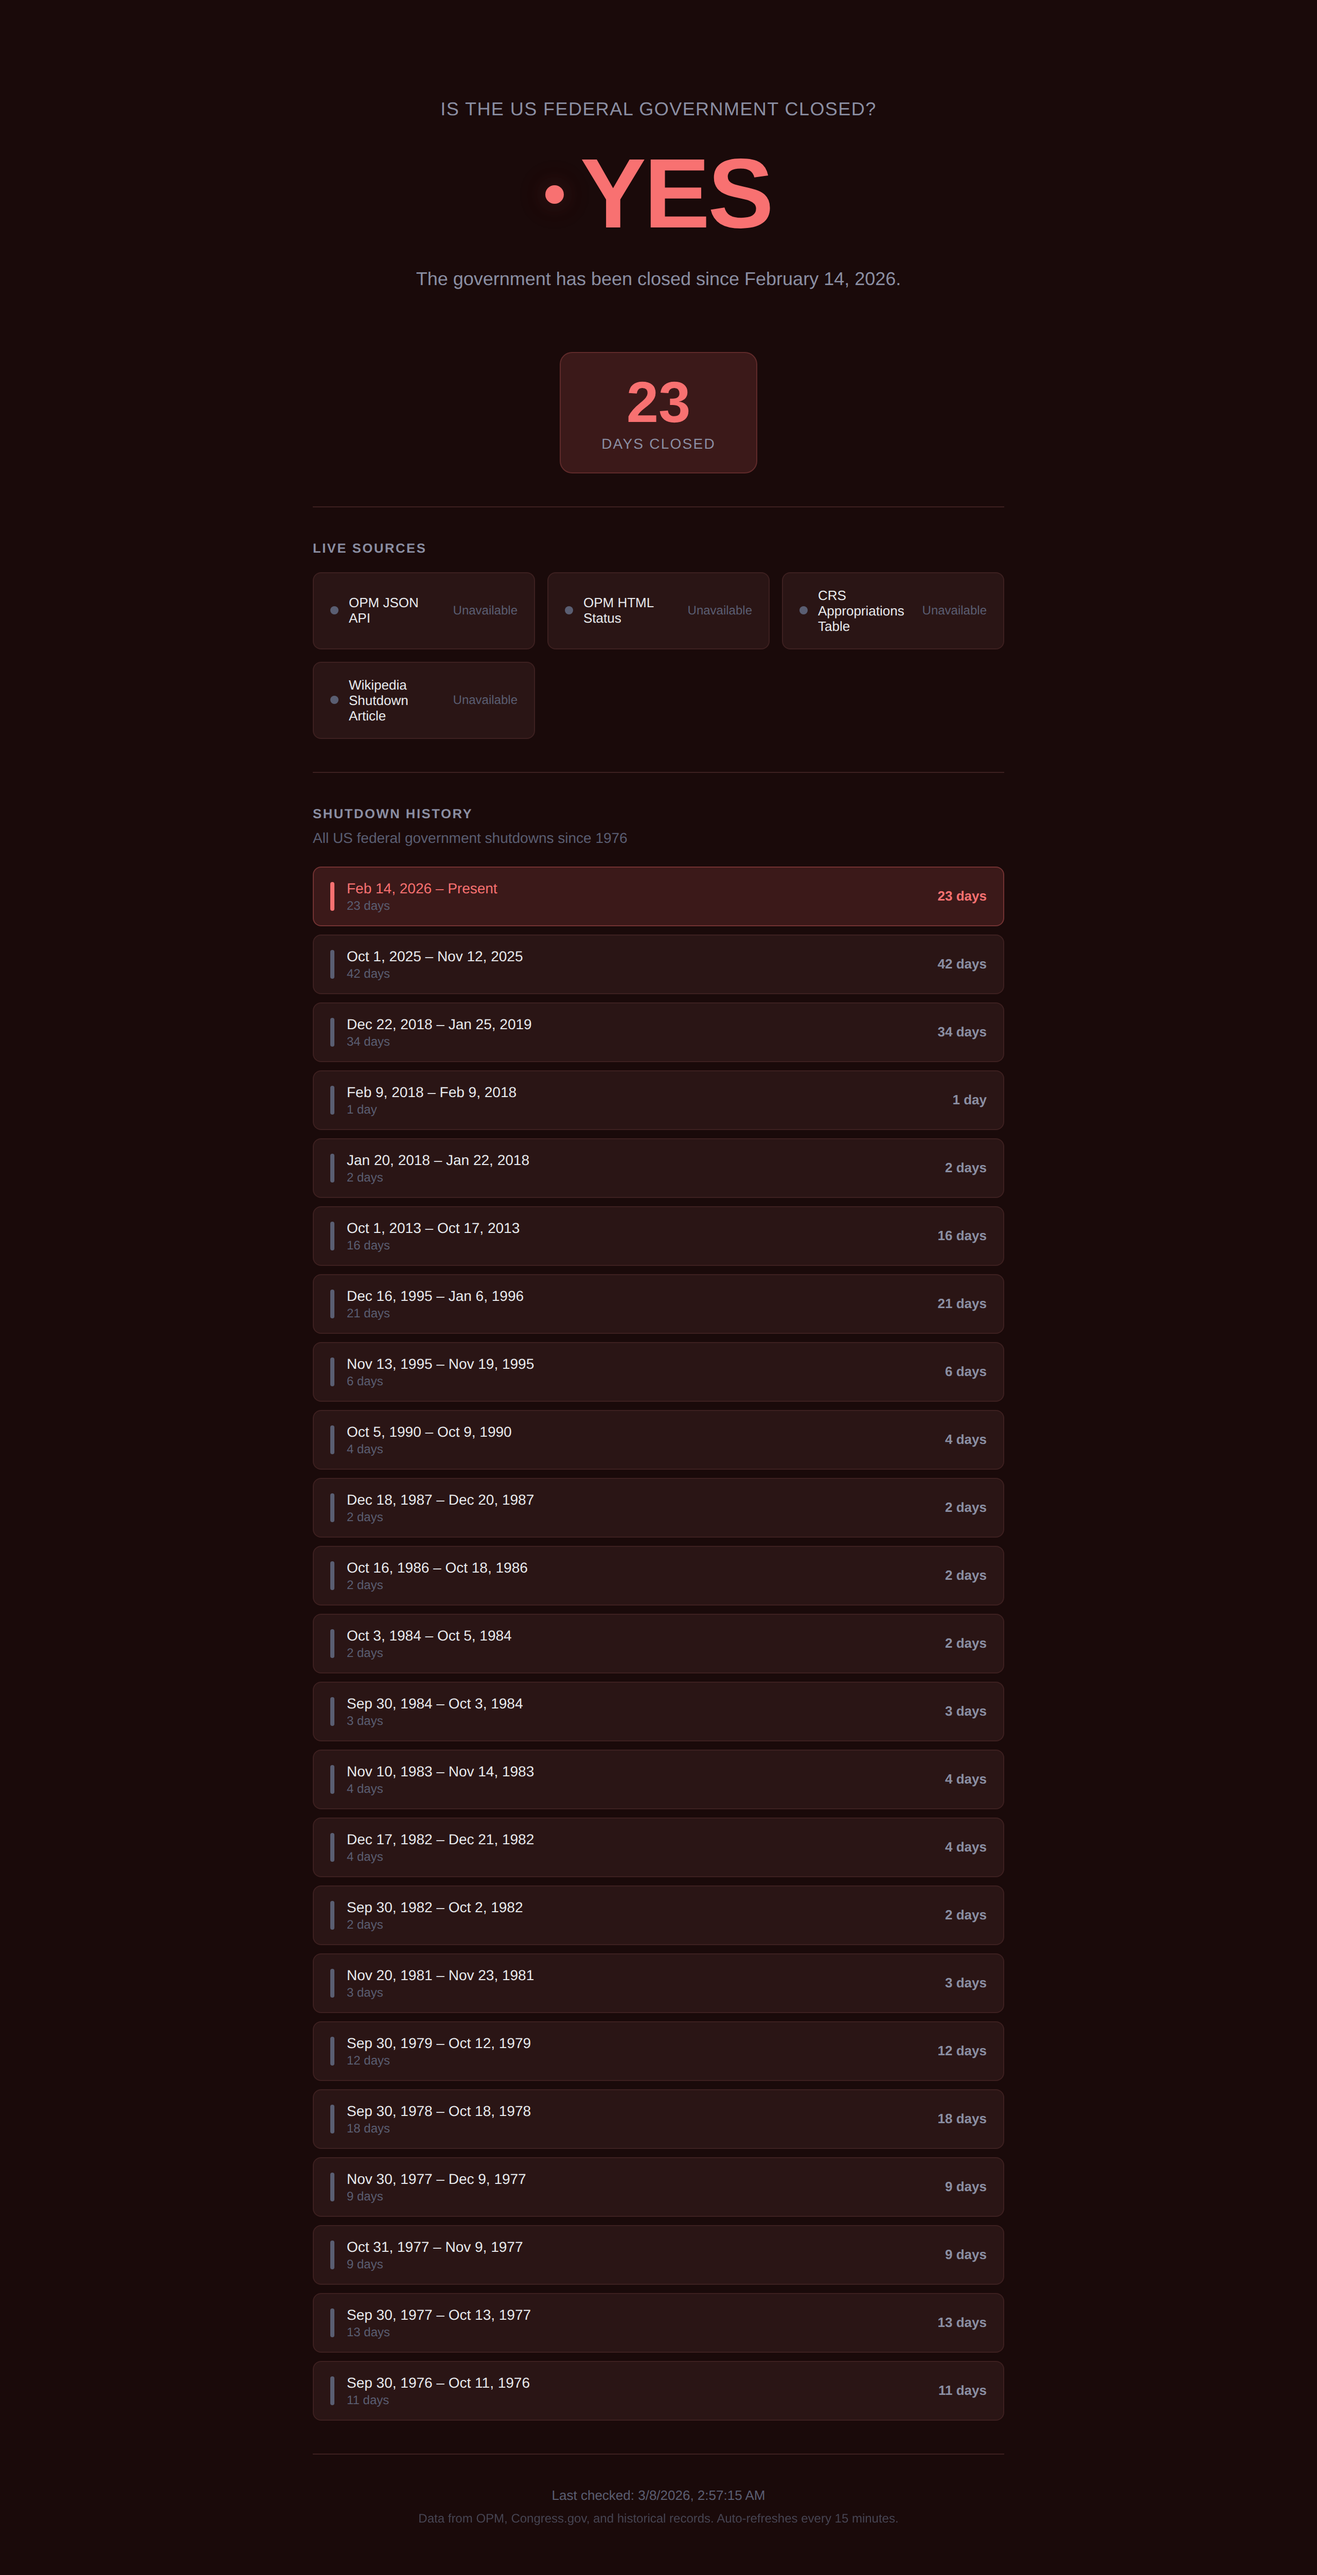
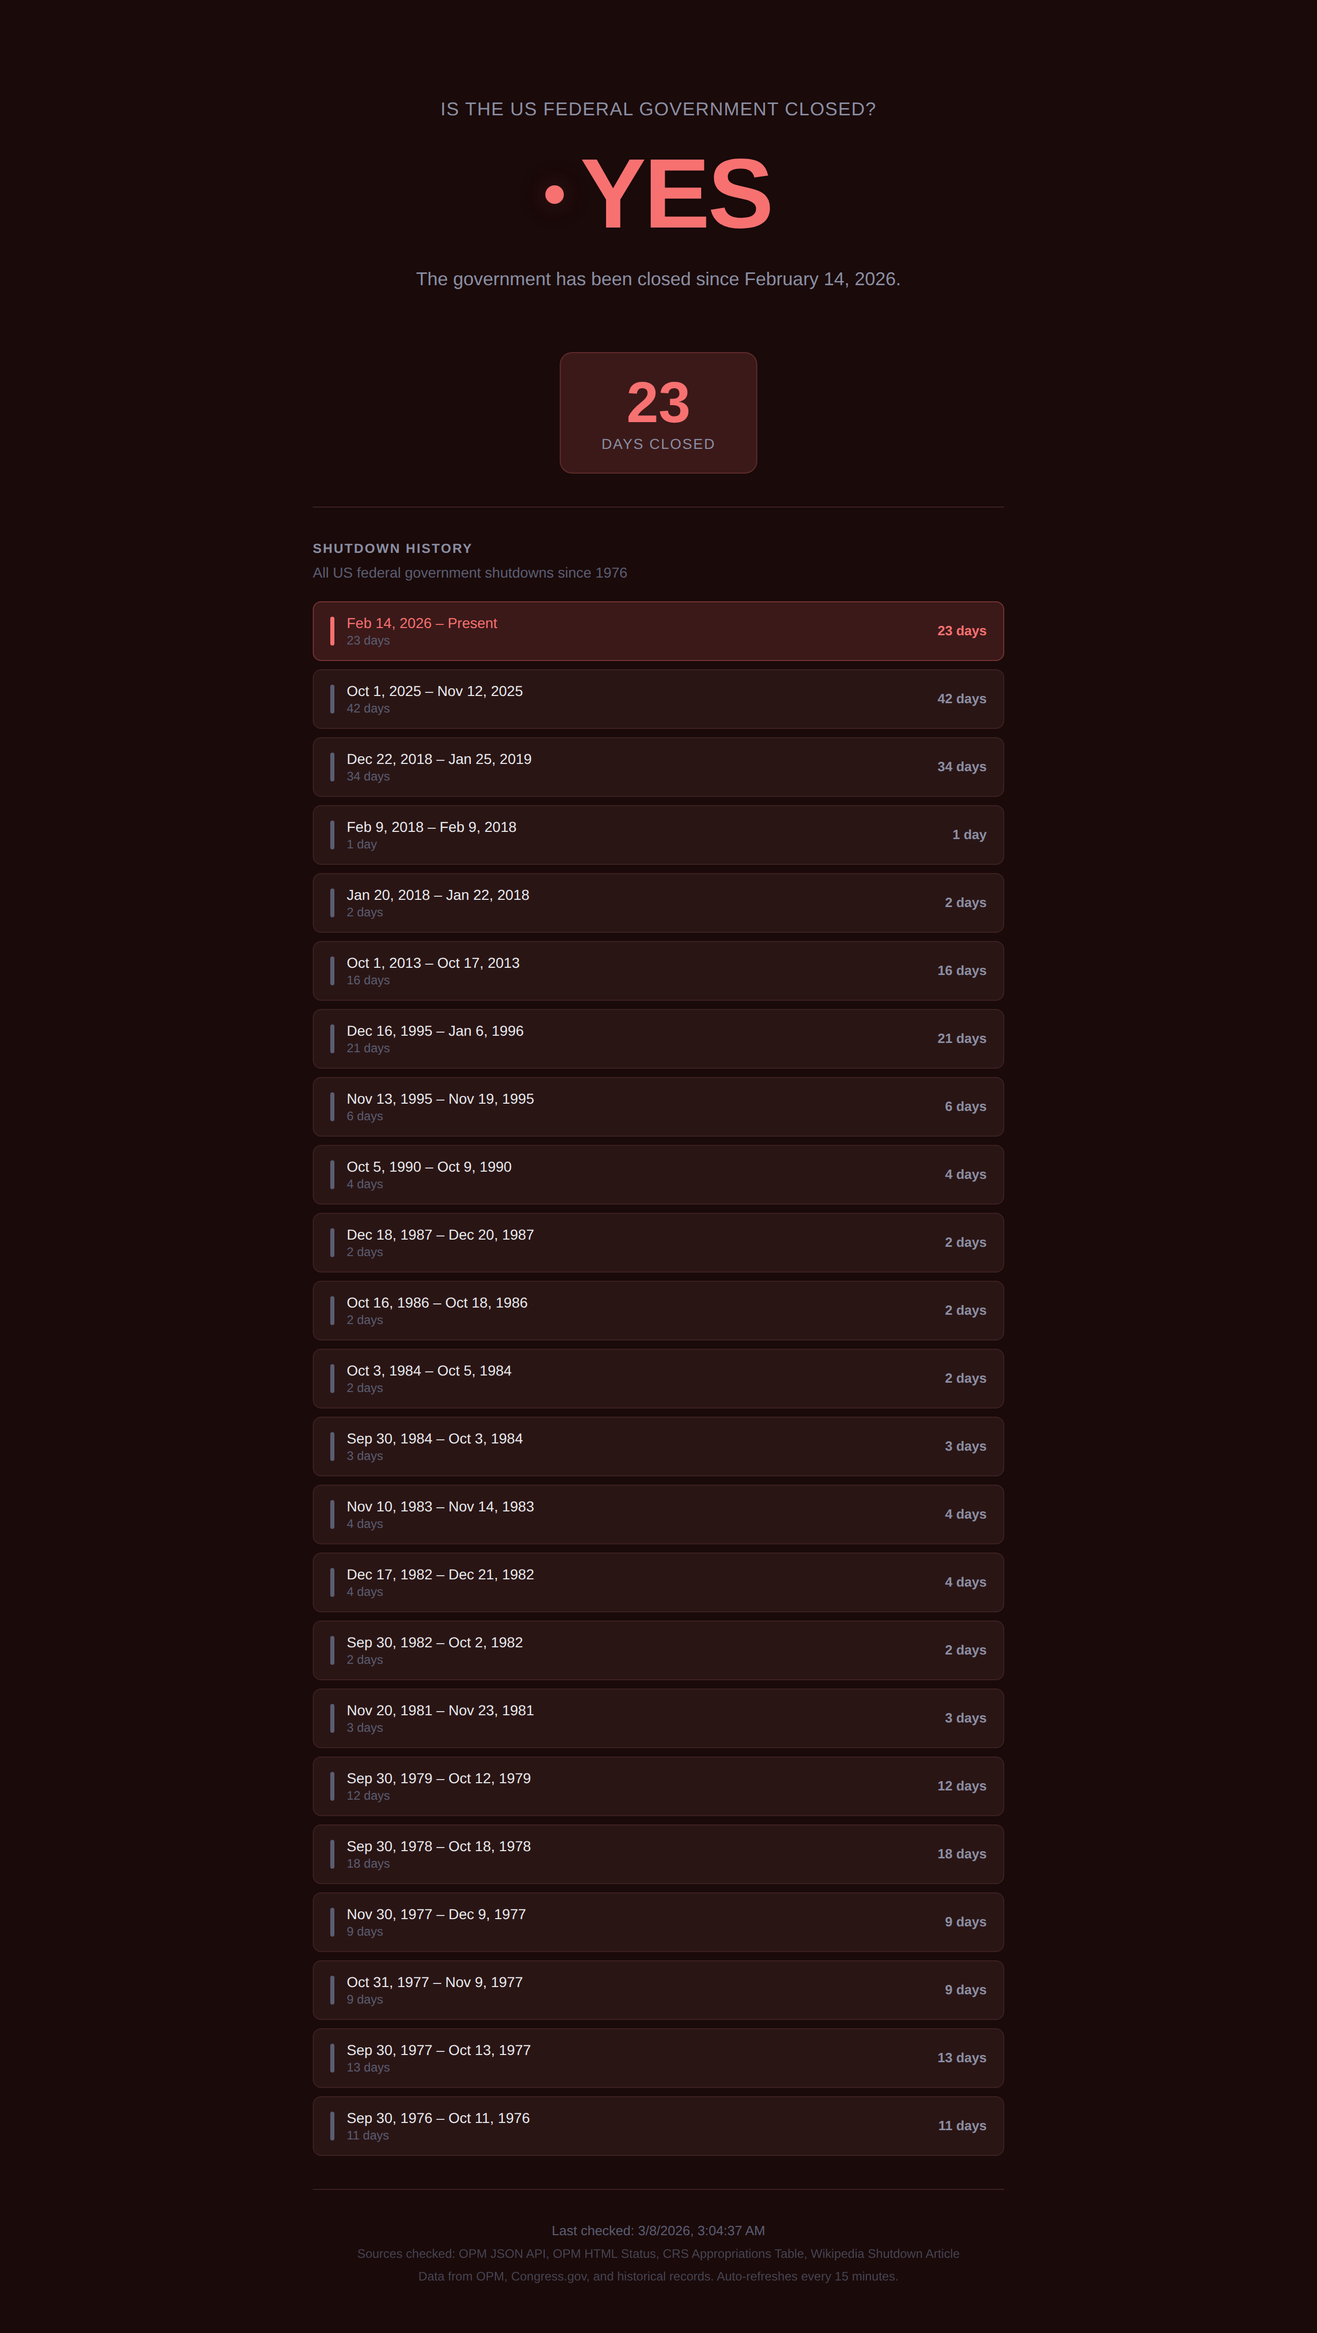
Move live sources from grid to footer footnotes
Replace the prominent source cards section with a subtle footnote
line at the bottom of the page for a cleaner layout.

https://claude.ai/code/session_0172i3znrXNV1RgsEQVhjfL9

diff --git a/public/app.js b/public/app.js
@@ -31,8 +31,7 @@ const detailEl = document.getElementById('detail');
 const dotEl = document.getElementById('status-dot');
 const counterSection = document.getElementById('counter-section');
 const counterNumber = document.getElementById('counter-number');
-const sourcesSection = document.getElementById('sources-section');
-const sourcesGrid = document.getElementById('sources-grid');
+const sourcesLineEl = document.getElementById('sources-line');
 const lastCheckedEl = document.getElementById('last-checked');
 const timelineEl = document.getElementById('timeline');
 
@@ -81,8 +80,8 @@ async function fetchStatus() {
 
     detailEl.textContent = data.message;
 
-    // Render live sources
-    renderSources(data);
+    // Render source footnotes
+    renderSourceFootnotes(data);
 
     // Update last checked
     if (data.lastScraped) {
@@ -97,34 +96,21 @@ async function fetchStatus() {
   }
 }
 
-// Render source cards
-function renderSources(data) {
+// Render sources as a footnote line
+function renderSourceFootnotes(data) {
   if (!data.liveCheck) return;
 
-  const sources = [];
-
+  const names = [];
   if (data.liveCheck.sources) {
-    data.liveCheck.sources.forEach(s => {
-      sources.push({ name: s.name, status: data.liveCheck.closed ? 'closed' : 'open' });
-    });
+    data.liveCheck.sources.forEach(s => names.push(s.name));
   }
-
   if (data.liveCheck.errors) {
-    data.liveCheck.errors.forEach(s => {
-      sources.push({ name: s.name, status: 'error' });
-    });
+    data.liveCheck.errors.forEach(s => names.push(s.name));
   }
 
-  if (sources.length === 0) return;
-
-  sourcesSection.classList.remove('hidden');
-  sourcesGrid.innerHTML = sources.map(s => `
-    <div class="source-card">
-      <span class="source-indicator ${s.status}"></span>
-      <span class="source-name">${escapeHtml(s.name)}</span>
-      <span class="source-status">${s.status === 'error' ? 'Unavailable' : s.status === 'closed' ? 'Closed' : 'Open'}</span>
-    </div>
-  `).join('');
+  if (names.length > 0) {
+    sourcesLineEl.textContent = 'Sources checked: ' + names.map(n => escapeHtml(n)).join(', ');
+  }
 }
 
 // Render shutdown timeline (newest first)

diff --git a/public/style.css b/public/style.css
@@ -179,58 +179,6 @@ body.shutdown {
   margin-bottom: 1.25rem;
 }
 
-/* === Live Sources === */
-.sources-section {
-  padding: 2rem 0;
-  border-top: 1px solid var(--border);
-}
-
-.sources-grid {
-  display: grid;
-  grid-template-columns: repeat(auto-fit, minmax(200px, 1fr));
-  gap: 0.75rem;
-  margin-top: 1rem;
-}
-
-.source-card {
-  background: var(--bg-card);
-  border: 1px solid var(--border);
-  border-radius: var(--radius-sm);
-  padding: 0.875rem 1rem;
-  display: flex;
-  align-items: center;
-  gap: 0.625rem;
-  transition: background 0.2s;
-}
-
-.source-card:hover {
-  background: var(--bg-card-hover);
-}
-
-.source-indicator {
-  width: 8px;
-  height: 8px;
-  border-radius: 50%;
-  flex-shrink: 0;
-}
-
-.source-indicator.open { background: var(--green); }
-.source-indicator.closed { background: var(--red); }
-.source-indicator.error { background: var(--text-dim); }
-
-.source-name {
-  font-size: 0.8125rem;
-  font-weight: 500;
-  color: var(--text);
-}
-
-.source-status {
-  font-size: 0.75rem;
-  color: var(--text-dim);
-  margin-left: auto;
-  white-space: nowrap;
-}
-
 /* === Timeline === */
 .timeline-section {
   padding: 2rem 0;
@@ -319,6 +267,13 @@ body.shutdown {
 .last-checked {
   font-size: 0.8125rem;
   color: var(--text-dim);
+  margin-bottom: 0.5rem;
+}
+
+.sources-line {
+  font-size: 0.75rem;
+  color: var(--text-dim);
+  opacity: 0.7;
   margin-bottom: 0.5rem;
 }
 

diff --git a/public/index.html b/public/index.html
@@ -28,12 +28,6 @@
       </div>
     </section>
 
-    <!-- Live Source Status -->
-    <section id="sources-section" class="sources-section hidden">
-      <h2 class="section-title">Live Sources</h2>
-      <div id="sources-grid" class="sources-grid"></div>
-    </section>
-
     <!-- Historical Timeline -->
     <section class="timeline-section">
       <h2 class="section-title">Shutdown History</h2>
@@ -44,6 +38,7 @@
     <!-- Footer -->
     <footer class="footer">
       <p id="last-checked" class="last-checked"></p>
+      <p id="sources-line" class="sources-line"></p>
       <p class="footer-note">Data from OPM, Congress.gov, and historical records. Auto-refreshes every 15 minutes.</p>
     </footer>
   </div>
